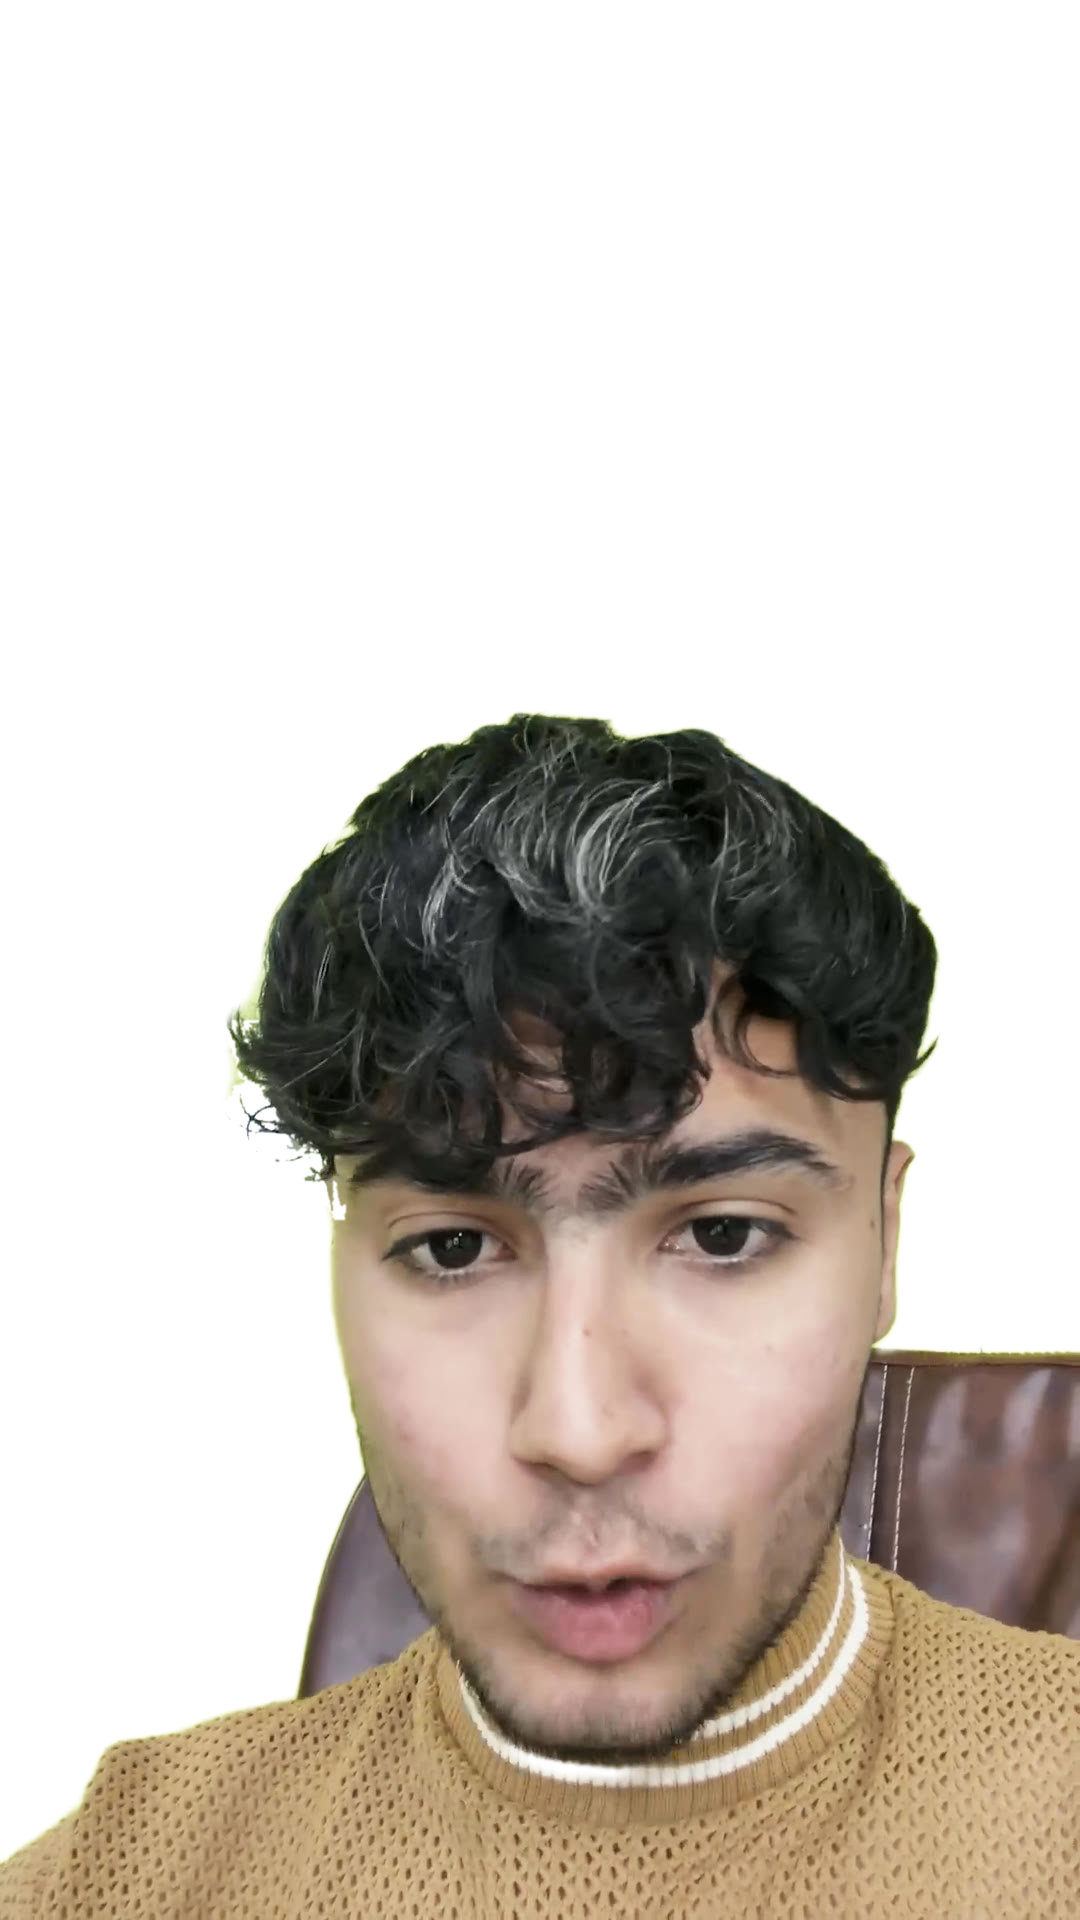
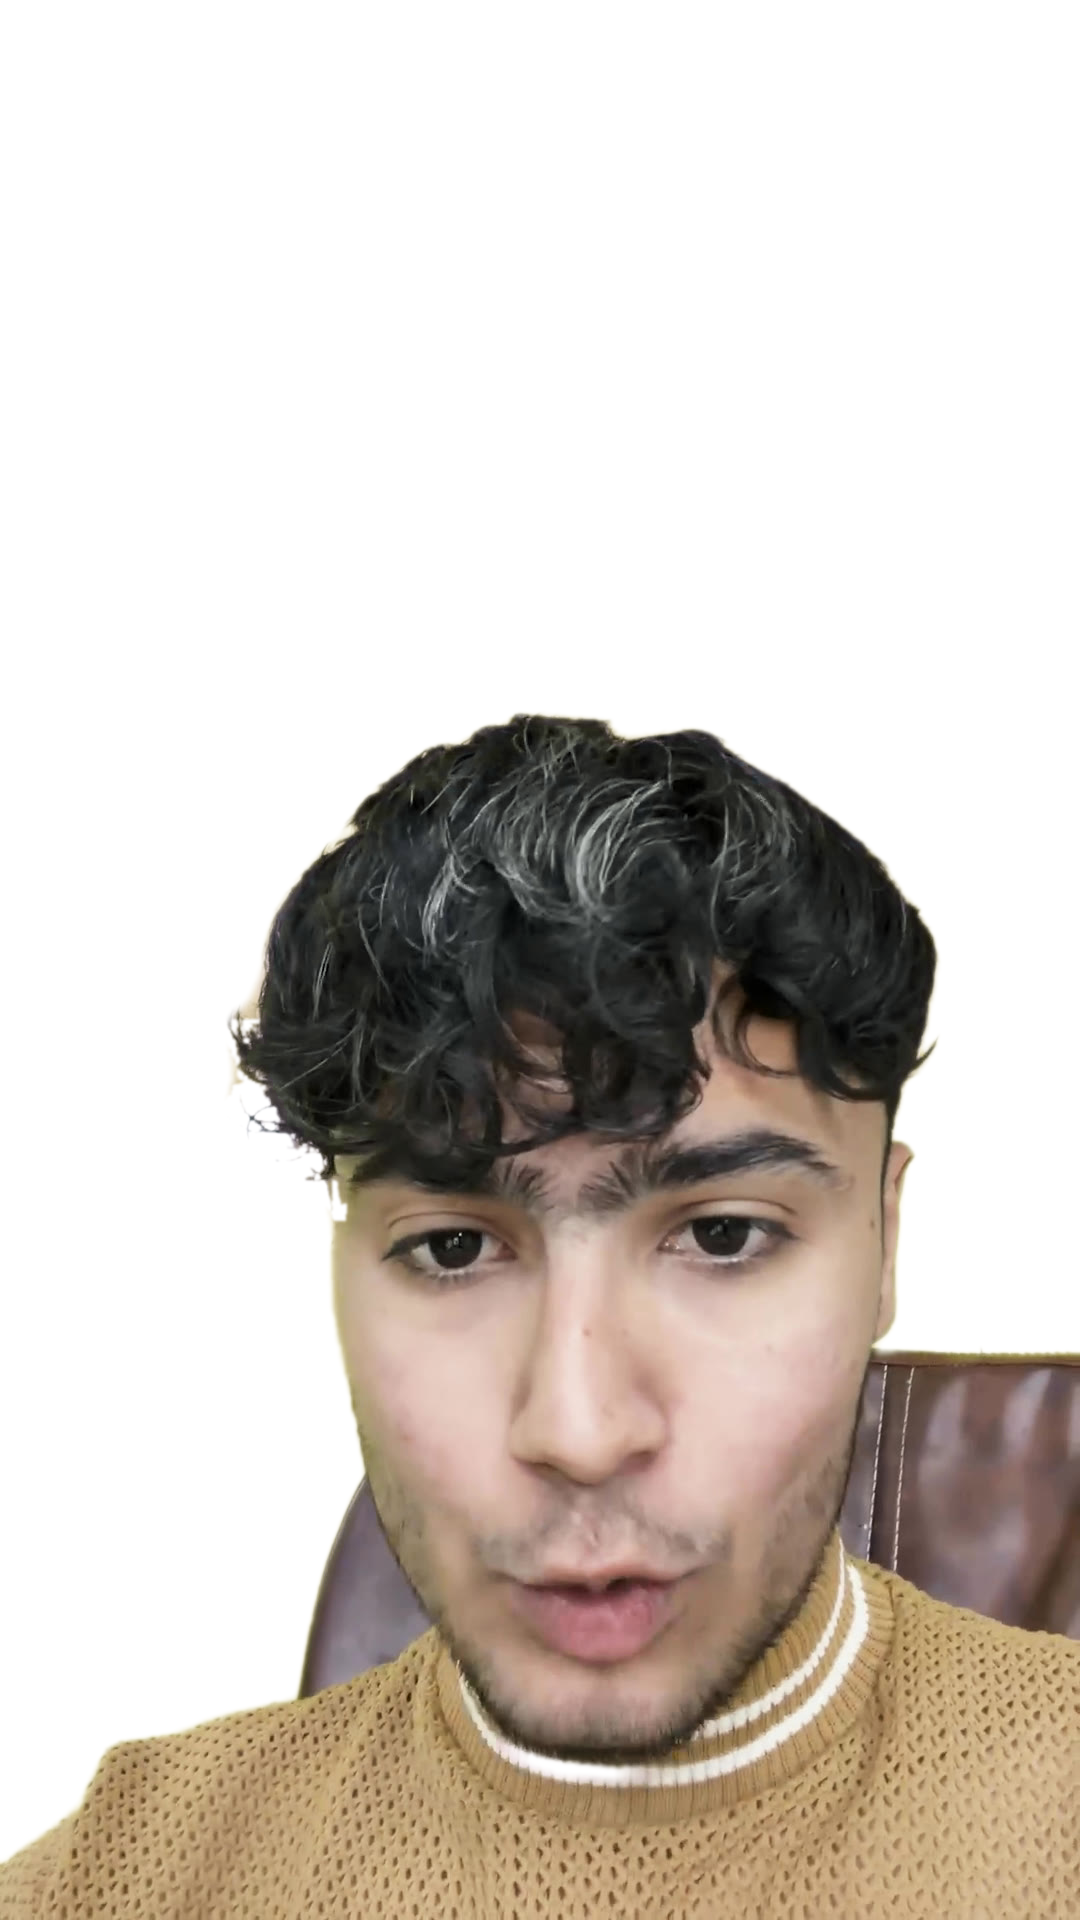
Reel 5 cover: premium texture (guilloche, grain, streaks), fanned note stacks, clean hair edge
Claude-Session: https://claude.ai/code/session_01GeKTtfkKXxHrqRi81DhyPh

diff --git a/src/Anfaal5/Cover.tsx b/src/Anfaal5/Cover.tsx
@@ -5,30 +5,68 @@ import { K } from "../Anfaal/design";
 // Reel 5 cover — split: PKR (red, rupee notes) vs DOLLAR (green, dollar notes), the client cut out in the
 // middle with a glowing seam behind him, big "PKR · YA · $" type, question line below. 3:4 safe (y 240–1680).
 const RED = "#FF4D57";
+/** banknote-style guilloche: many phase-shifted sine lines */
+const Guilloche: React.FC<{ color: string; opacity: number; seed: number }> = ({ color, opacity, seed }) => (
+  <svg width={1080} height={1920} style={{ position: "absolute", inset: 0, opacity }}>
+    {Array.from({ length: 34 }, (_, i) => {
+      const y0 = 120 + i * 52;
+      const amp = 26 + (i % 5) * 6;
+      let d = `M -20 ${y0}`;
+      for (let x = -20; x <= 1100; x += 20) d += ` L ${x} ${(y0 + Math.sin(x / (70 + seed * 7) + i * 0.55 + seed) * amp + Math.sin(x / 23 + i) * 4).toFixed(1)}`;
+      return <path key={i} d={d} fill="none" stroke={color} strokeWidth={1.2} />;
+    })}
+    {Array.from({ length: 16 }, (_, i) => (
+      <circle key={"c" + i} cx={seed > 1 ? 820 : 260} cy={1150} r={90 + i * 26} fill="none" stroke={color} strokeWidth={1} strokeDasharray="2 6" />
+    ))}
+  </svg>
+);
+/** three notes fanned like a hand of cash; pivot near the shoulder */
+const Fan: React.FC<{ src: string; side: "left" | "right"; tint: string }> = ({ src, side, tint }) => {
+  const L = side === "left";
+  const angles = L ? [48, 34, 20] : [-48, -34, -20];
+  return (
+    <div style={{ position: "absolute", left: L ? 330 : 750, top: 1260 }}>
+      {angles.map((a, i) => (
+        <div key={i} style={{ position: "absolute", left: L ? -700 : 0, top: -140, width: 700, transformOrigin: L ? "100% 50%" : "0% 50%", transform: `rotate(${a}deg)` }}>
+          <div style={{ borderRadius: 14, overflow: "hidden", boxShadow: "0 30px 60px rgba(0,0,0,.65)", border: "2px solid rgba(255,241,201,.35)" }}>
+            <Img src={staticFile(src)} style={{ display: "block", width: 700, filter: `brightness(${0.75 + i * 0.12}) contrast(1.08)` }} />
+            <AbsoluteFill style={{ background: tint, mixBlendMode: "soft-light" }} />
+            <AbsoluteFill style={{ background: "linear-gradient(115deg, rgba(255,255,255,0) 30%, rgba(255,255,255,.3) 42%, rgba(255,255,255,0) 55%)", mixBlendMode: "screen" }} />
+          </div>
+        </div>
+      ))}
+    </div>
+  );
+};
 const Notes: React.FC<{ src: string; x: number; y: number; w: number; rot: number; tint: string }> = ({ src, x, y, w, rot, tint }) => (
   <div style={{ position: "absolute", left: x, top: y, width: w, transform: `rotate(${rot}deg)`, borderRadius: 18, overflow: "hidden", boxShadow: "0 30px 60px rgba(0,0,0,.6)" }}>
     <Img src={staticFile(src)} style={{ display: "block", width: w, filter: "contrast(1.1) saturate(1.1)" }} />
     <AbsoluteFill style={{ background: tint, mixBlendMode: "soft-light" }} />
+    <AbsoluteFill style={{ background: "linear-gradient(115deg, rgba(255,255,255,0) 30%, rgba(255,255,255,.35) 42%, rgba(255,255,255,0) 55%)", mixBlendMode: "screen" }} />
+    <div style={{ position: "absolute", inset: 0, borderRadius: 18, boxShadow: "inset 0 0 0 2px rgba(255,241,201,.35)" }} />
   </div>
 );
 export const AnfaalReel5Cover: React.FC = () => (
   <AbsoluteFill style={{ backgroundColor: "#050505", overflow: "hidden" }}>
     {/* left: PKR world */}
     <div style={{ position: "absolute", left: 0, top: 0, width: 600, height: 1920, clipPath: "polygon(0 0, 600px 0, 480px 1920px, 0 1920px)", background: "radial-gradient(90% 60% at 30% 40%, #5A0D12 0%, #2A0507 55%, #0D0203 100%)" }}>
-      <Notes src="an5/pkr_notes.png" x={30} y={370} w={470} rot={-7} tint="rgba(255,60,70,.15)" />
+      <Guilloche color="#FF9AA0" opacity={0.16} seed={1} />
     </div>
     {/* right: DOLLAR world */}
     <div style={{ position: "absolute", left: 480, top: 0, width: 600, height: 1920, clipPath: "polygon(120px 0, 600px 0, 600px 1920px, 0 1920px)", background: `radial-gradient(90% 60% at 70% 40%, ${K.hueDeep} 0%, #06301A 55%, #020C06 100%)` }}>
-      <div style={{ position: "absolute", left: 100, top: 370 }}>
-        <Notes src="an5/usd_notes.png" x={0} y={0} w={470} rot={7} tint="rgba(47,210,126,.12)" />
+      <div style={{ position: "absolute", left: -480, top: 0 }}>
+        <Guilloche color="#9CFFC9" opacity={0.14} seed={2} />
       </div>
     </div>
     {/* glowing seam */}
     <div style={{ position: "absolute", left: 535, top: -100, width: 10, height: 2200, transform: "rotate(3.6deg)", background: "linear-gradient(180deg, rgba(255,255,255,0), #FFFFFF 30%, #FFF1C9 60%, rgba(255,255,255,0))", boxShadow: "0 0 40px rgba(255,241,201,.8), 0 0 120px rgba(255,241,201,.4)" }} />
 
+    {/* big fanned cash stacks, sweeping out from behind the shoulders */}
+    <Fan src="an5/pkr_notes.png" side="left" tint="rgba(255,60,70,.12)" />
+    <Fan src="an5/usd_notes.png" side="right" tint="rgba(47,210,126,.10)" />
     {/* big type behind the head */}
-    <div style={{ position: "absolute", left: 70, top: 590, fontFamily: "Anton", fontSize: 200, lineHeight: 1, color: RED, textShadow: "0 0 50px rgba(255,77,87,.55)" }}>PKR</div>
-    <div style={{ position: "absolute", right: 90, top: 590, fontFamily: "Anton", fontSize: 200, lineHeight: 1, color: K.hue, textShadow: `0 0 50px ${K.glow}` }}>$</div>
+    <div style={{ position: "absolute", left: 80, top: 395, fontFamily: "Anton", fontSize: 190, lineHeight: 1, color: RED, WebkitTextStroke: "2px rgba(255,241,201,.55)", textShadow: "0 0 50px rgba(255,77,87,.55), 0 10px 30px rgba(0,0,0,.6)" }}>PKR</div>
+    <div style={{ position: "absolute", right: 110, top: 395, fontFamily: "Anton", fontSize: 190, lineHeight: 1, color: K.hue, WebkitTextStroke: "2px rgba(255,241,201,.55)", textShadow: `0 0 50px ${K.glow}, 0 10px 30px rgba(0,0,0,.6)` }}>$</div>
 
     {/* the speaker */}
     <AbsoluteFill style={{ transform: "scale(1)", transformOrigin: "540px 1920px" }}>
@@ -37,13 +75,19 @@ export const AnfaalReel5Cover: React.FC = () => (
     </AbsoluteFill>
 
     {/* "YA" badge on the seam */}
-    <div style={{ position: "absolute", left: 540 - 75, top: 395, width: 150, height: 150, borderRadius: 85, background: "rgba(5,5,5,.88)", border: "3px solid #FFF1C9", boxShadow: "0 0 50px rgba(255,241,201,.5)", display: "flex", alignItems: "center", justifyContent: "center", fontFamily: "Anton", fontSize: 76, color: "#FFF1C9" }}>YA</div>
+    <div style={{ position: "absolute", left: 540 - 75, top: 420, width: 150, height: 150, borderRadius: 85, background: "rgba(5,5,5,.88)", border: "3px solid #FFF1C9", boxShadow: "0 0 50px rgba(255,241,201,.5)", display: "flex", alignItems: "center", justifyContent: "center", fontFamily: "Anton", fontSize: 76, color: "#FFF1C9" }}>YA</div>
 
     {/* question line */}
     <AbsoluteFill style={{ background: "linear-gradient(180deg, rgba(0,0,0,.6) 0%, rgba(0,0,0,0) 16%, rgba(0,0,0,0) 85%, rgba(0,0,0,.6) 100%)" }} />
     <div style={{ position: "absolute", left: 0, right: 0, top: 230, textAlign: "center" }}>
-      <div style={{ fontFamily: "Inter", fontWeight: 700, fontSize: 38, letterSpacing: 10, color: K.white }}>AAP KIS KE PEECHE HO?</div>
+      <div style={{ fontFamily: "Inter", fontWeight: 700, fontSize: 38, letterSpacing: 10, color: K.white, textShadow: "0 4px 16px rgba(0,0,0,.6)" }}>AAP KIS KE PEECHE HO?</div>
       <div style={{ position: "absolute", left: 0, right: 0, top: 55, margin: "0 auto", width: "fit-content", padding: "10px 28px", borderRadius: 999, background: `linear-gradient(180deg, #6BF0AC, ${K.hueDeep})`, fontFamily: "Anton", fontSize: 40, letterSpacing: 3, color: "#03140B" }}>COMMENT KARO ↓</div>
     </div>
+    {/* premium finish: light streaks, vignette, film grain */}
+    {[0, 1].map((i) => (
+      <div key={i} style={{ position: "absolute", left: 120 + i * 560, top: -300, width: 180, height: 2600, transform: `rotate(${i ? -18 : 18}deg)`, background: "linear-gradient(180deg, rgba(255,241,201,.10), rgba(255,241,201,0) 70%)", mixBlendMode: "screen" }} />
+    ))}
+    <AbsoluteFill style={{ background: "radial-gradient(115% 80% at 50% 42%, transparent 55%, rgba(0,0,0,.55) 100%)" }} />
+    <AbsoluteFill style={{ backgroundImage: `url(${staticFile("an5/grain.png")})`, backgroundSize: "380px 380px", mixBlendMode: "overlay", opacity: 0.16 }} />
   </AbsoluteFill>
 );
